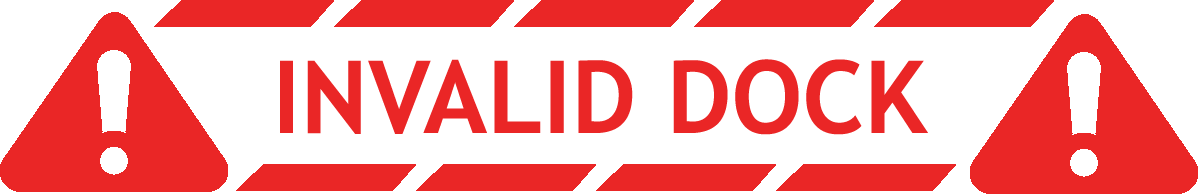
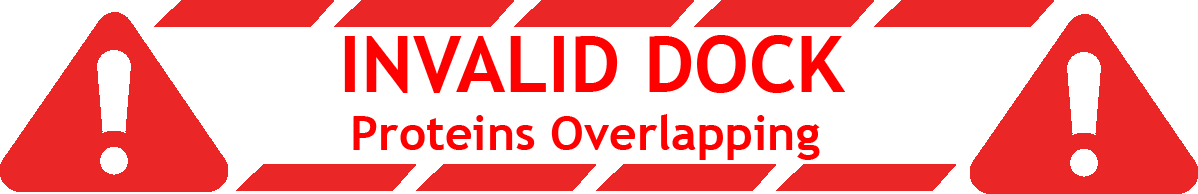
Message on screen when invalid modified. Slider fixes

Changed region(s): [[0.2162, 0.1856, 0.7721, 0.8351]]

diff --git a/PDB_unity/Assets/Scripts/AminoSliderController.cs b/PDB_unity/Assets/Scripts/AminoSliderController.cs
@@ -34,7 +34,7 @@ public class AminoSliderController : MonoBehaviour {
 	public List<Button> A1Buttons = new List<Button> ();
 	public List<Button> A2Buttons = new List<Button> ();
 	//current button
-	public int CurrentButtonA1, CurrentButtonA2 = 0;
+	public int CurrentButtonA1, CurrentButtonA2, LastButtonA1, LastButtonA2 = 0;
 	//text to link when there is the free camera
 	public GameObject AddConnectionText;
 	public Animator ConnectionExistMessage;
@@ -110,17 +110,28 @@ public class AminoSliderController : MonoBehaviour {
             if (ScrollbarAmino1.value > 0.0f)
             {
                 A1Buttons[CurrentButtonA1].GetComponent<Animator>().SetBool("High", false);
+                //save the last active one
+                LastButtonA1 = CurrentButtonA1;
                 //pass over non-active
                 do
                 {
-                    CurrentButtonA1--;
-
+                    if (CurrentButtonA1 == 0)
+                    {
+                        CurrentButtonA1 = LastButtonA1;
+                        break;
+                    }
+                    else
+                    {
+                        CurrentButtonA1--;
+                    }
                 } while (!A1Buttons[CurrentButtonA1].IsActive());
 
                 A1Buttons[CurrentButtonA1].GetComponent<Animator>().SetBool("High", true);
                 ScrollbarAmino1.value = (float)A1Buttons[CurrentButtonA1].GetComponent<AminoButtonController>().temp_AminoButtonID / ((float)number_childs_A1 - 1);
 				A1Buttons[CurrentButtonA1].GetComponent<AminoButtonController>().HighLight();
-			}
+                Debug.Log("CurrentButtonA1: " + CurrentButtonA1 + " - A1Buttons.count: " + A1Buttons.Count + "- number_childs_A1: "+number_childs_A1);
+
+            }
 		}
 		
 		if (ButtonA1RDown)
@@ -128,16 +139,27 @@ public class AminoSliderController : MonoBehaviour {
 			if(ScrollbarAmino1.value < 1.0f)
 			{
                 A1Buttons[CurrentButtonA1].GetComponent<Animator>().SetBool("High", false);
+                //save the last active one
+                LastButtonA1 = CurrentButtonA1;
                 //pass over non-active
                 do
                 {
-                    CurrentButtonA1++;
-
+                    if (CurrentButtonA1 == A1Buttons.Count - 1)
+                    {
+                        CurrentButtonA1= LastButtonA1;
+                        break;
+                    }
+                    else
+                    {
+                        CurrentButtonA1++;
+                    }
                 } while (!A1Buttons[CurrentButtonA1].IsActive());
+                
 
                 A1Buttons[CurrentButtonA1].GetComponent<Animator>().SetBool("High", true);
                 ScrollbarAmino1.value = (float)A1Buttons[CurrentButtonA1].GetComponent<AminoButtonController>().temp_AminoButtonID / ((float)number_childs_A1 - 1);
 				A1Buttons[CurrentButtonA1].GetComponent<AminoButtonController>().HighLight();
+               // Debug.Log("CurrentButtonA1: " + CurrentButtonA1 + " - A1Buttons.count: " + A1Buttons.Count + "- number_childs_A1: "+number_childs_A1);
             }
 		}
         
@@ -146,10 +168,20 @@ public class AminoSliderController : MonoBehaviour {
 			if(ScrollbarAmino2.value > 0.0f)
 			{
                 A2Buttons[CurrentButtonA2].GetComponent<Animator>().SetBool("High", false);
+                //save the last active one
+                LastButtonA2 = CurrentButtonA2;
                 //pass over non-active
                 do
                 {
-                    CurrentButtonA2--;
+                    if (CurrentButtonA2 == 0)
+                    {
+                        CurrentButtonA2 = LastButtonA2;
+                        break;
+                    }
+                    else
+                    {
+                        CurrentButtonA2--;
+                    }
 
                 } while (!A2Buttons[CurrentButtonA2].IsActive());
 
@@ -165,10 +197,20 @@ public class AminoSliderController : MonoBehaviour {
 			{
 
                 A2Buttons[CurrentButtonA2].GetComponent<Animator>().SetBool("High", false);
+                //save the last active one
+                LastButtonA2 = CurrentButtonA2;
                 //pass over non-active
                 do
                 {
-                    CurrentButtonA2++;
+                    if (CurrentButtonA2 == A2Buttons.Count - 1)
+                    {
+                        CurrentButtonA2 = LastButtonA2;
+                        break;
+                    }
+                    else
+                    {
+                        CurrentButtonA2++;
+                    }
 
                 } while (!A2Buttons[CurrentButtonA2].IsActive());
 
@@ -258,7 +300,8 @@ public class AminoSliderController : MonoBehaviour {
 			}
 		}
 
-        UpdateButtonTempID();
+        UpdateButtonTempIDA1();
+        UpdateButtonTempIDA2();
     }
 	
 	public void GeneratesAminoButtons1(string currentAmino, string tag, int index)
@@ -357,11 +400,15 @@ public class AminoSliderController : MonoBehaviour {
 		if (ButtonSelected.transform.parent.name == "ContentPanelA1")
 		{
 			ButtonPickedA1 = ButtonSelected;
+            //udate the slider value
+            //ScrollbarAmino1.value = (float)ButtonSelected.GetComponent<AminoButtonController>().temp_AminoButtonID / ((float)number_childs_A1 - 1);
         }
 		else
 		{
 			ButtonPickedA2 = ButtonSelected;
-		}
+            //udate the slider value
+            //ScrollbarAmino2.value = (float)ButtonSelected.GetComponent<AminoButtonController>().temp_AminoButtonID / ((float)number_childs_A2 - 1);
+        }
 
 		if (ButtonPickedA1 != null && ButtonPickedA2 != null && ButtonPickedA1.GetComponent<Button> ().interactable == true && ButtonPickedA2.GetComponent<Button> ().interactable == true) {
             //AddConnection.GetComponent<Animator> ().enabled = true;
@@ -371,6 +418,8 @@ public class AminoSliderController : MonoBehaviour {
 			AddConnectionText.SetActive(false);
 			//DeactivateAddConnectionButton ();
 		}
+
+
 /*
         //if function type activated
         if (uIController.auto_filter)
@@ -609,9 +658,12 @@ public class AminoSliderController : MonoBehaviour {
                 {
                     for (int i = 0; i < score_aminolinks_holder_max.Count; i++)
                     {
+                        //turn to normal
+                        SliderMol1.transform.Find(((int)score_aminolinks_holder_elec[i].x).ToString()).gameObject.transform.localScale = new Vector3(1, 1, 1);
+                        SliderMol2.transform.Find(((int)score_aminolinks_holder_elec[i].y).ToString()).gameObject.transform.localScale = new Vector3(1, 1, 1);
                         AminoAcidsLinkPanel(BioBloxReference.GetComponent<ConnectionManager>().CreateAminoAcidLink(BioBloxReference.molecules[0].GetComponent<PDB_mesh>(), (int)score_aminolinks_holder_max[i].x, BioBloxReference.molecules[1].GetComponent<PDB_mesh>(), (int)score_aminolinks_holder_max[i].y), SliderMol1.transform.Find(((int)score_aminolinks_holder_max[i].x).ToString()).gameObject, SliderMol2.transform.Find(((int)score_aminolinks_holder_max[i].y).ToString()).gameObject);
-                        FindObjectOfType<ConnectionManager>().SliderStrings.interactable = true;
                     }
+                    FindObjectOfType<ConnectionManager>().SliderStrings.interactable = true;
                     //set the rotation of the molecuels
                     BioBloxReference.molecules[0].transform.localEulerAngles = max_protein0;
                     BioBloxReference.molecules[1].transform.localEulerAngles = max_protein1;
@@ -624,9 +676,12 @@ public class AminoSliderController : MonoBehaviour {
                 {
                     for (int i = 0; i < score_aminolinks_holder_elec.Count; i++)
                     {
+                        //turn to normal
+                        SliderMol1.transform.Find(((int)score_aminolinks_holder_elec[i].x).ToString()).gameObject.transform.localScale = new Vector3(1, 1, 1);
+                        SliderMol2.transform.Find(((int)score_aminolinks_holder_elec[i].y).ToString()).gameObject.transform.localScale = new Vector3(1, 1, 1);
                         AminoAcidsLinkPanel(BioBloxReference.GetComponent<ConnectionManager>().CreateAminoAcidLink(BioBloxReference.molecules[0].GetComponent<PDB_mesh>(), (int)score_aminolinks_holder_elec[i].x, BioBloxReference.molecules[1].GetComponent<PDB_mesh>(), (int)score_aminolinks_holder_elec[i].y), SliderMol1.transform.Find(((int)score_aminolinks_holder_elec[i].x).ToString()).gameObject, SliderMol2.transform.Find(((int)score_aminolinks_holder_elec[i].y).ToString()).gameObject);
-                        FindObjectOfType<ConnectionManager>().SliderStrings.interactable = true;
                     }
+                    FindObjectOfType<ConnectionManager>().SliderStrings.interactable = true;
                     //set the rotation of the molecuels
                     BioBloxReference.molecules[0].transform.localEulerAngles = elec_protein0;
                     BioBloxReference.molecules[1].transform.localEulerAngles = elec_protein0;
@@ -639,9 +694,12 @@ public class AminoSliderController : MonoBehaviour {
                 {
                     for (int i = 0; i < score_aminolinks_holder_len.Count; i++)
                     {
+                        //turn to normal
+                        SliderMol1.transform.Find(((int)score_aminolinks_holder_elec[i].x).ToString()).gameObject.transform.localScale = new Vector3(1, 1, 1);
+                        SliderMol2.transform.Find(((int)score_aminolinks_holder_elec[i].y).ToString()).gameObject.transform.localScale = new Vector3(1, 1, 1);
                         AminoAcidsLinkPanel(BioBloxReference.GetComponent<ConnectionManager>().CreateAminoAcidLink(BioBloxReference.molecules[0].GetComponent<PDB_mesh>(), (int)score_aminolinks_holder_len[i].x, BioBloxReference.molecules[1].GetComponent<PDB_mesh>(), (int)score_aminolinks_holder_len[i].y), SliderMol1.transform.Find(((int)score_aminolinks_holder_len[i].x).ToString()).gameObject, SliderMol2.transform.Find(((int)score_aminolinks_holder_len[i].y).ToString()).gameObject);
-                        FindObjectOfType<ConnectionManager>().SliderStrings.interactable = true;
                     }
+                    FindObjectOfType<ConnectionManager>().SliderStrings.interactable = true;
                     //set the rotation of the molecuels
                     BioBloxReference.molecules[0].transform.localEulerAngles = len_protein0;
                     BioBloxReference.molecules[1].transform.localEulerAngles = len_protein1;
@@ -707,26 +765,34 @@ public class AminoSliderController : MonoBehaviour {
 
 
 
-    public void UpdateButtonTempID()
+    public void UpdateButtonTempIDA1()
     {
         number_childs_A1 = 0;
         foreach (Transform child in SliderMol1.transform)
         {
             if (child.gameObject.activeSelf)
             {
+                if (number_childs_A1 == 0) CurrentButtonA1 = child.GetComponent<AminoButtonController>().AminoButtonID;
                 child.GetComponent<AminoButtonController>().temp_AminoButtonID = number_childs_A1;
                 number_childs_A1++;
             }
         }
+        ScrollbarAmino1.value = 0;
+        Debug.Log(ScrollbarAmino1.value);
+    }
 
+    public void UpdateButtonTempIDA2()
+    {
         number_childs_A2 = 0;
         foreach (Transform child in SliderMol2.transform)
         {
             if (child.gameObject.activeSelf)
             {
+                if (number_childs_A2 == 0) CurrentButtonA2 = child.GetComponent<AminoButtonController>().AminoButtonID;
                 child.GetComponent<AminoButtonController>().temp_AminoButtonID = number_childs_A2;
                 number_childs_A2++;
             }
         }
+        ScrollbarAmino2.value = 0;
     }
 }

diff --git a/PDB_unity/Assets/Scripts/UIController.cs b/PDB_unity/Assets/Scripts/UIController.cs
@@ -271,7 +271,7 @@ public class UIController : MonoBehaviour {
 
         }
         //set id_s
-        aminoSliderController.UpdateButtonTempID();
+        aminoSliderController.UpdateButtonTempIDA1();
 	}
 
 	public void ToggleNegativeA1()
@@ -298,7 +298,7 @@ public class UIController : MonoBehaviour {
             }
         }
         //set id_s
-        aminoSliderController.UpdateButtonTempID();
+        aminoSliderController.UpdateButtonTempIDA1();
     }
 
 	public void TogglePolarA1()
@@ -325,7 +325,7 @@ public class UIController : MonoBehaviour {
             }
         }
         //set id_s
-        aminoSliderController.UpdateButtonTempID();
+        aminoSliderController.UpdateButtonTempIDA1();
     }
 
 	public void ToggleOtherA1()
@@ -352,7 +352,7 @@ public class UIController : MonoBehaviour {
             }
         }
         //set id_s
-        aminoSliderController.UpdateButtonTempID();
+        aminoSliderController.UpdateButtonTempIDA1();
     }
 
 	public void ToggleHydroA1()
@@ -379,7 +379,7 @@ public class UIController : MonoBehaviour {
             }
         }
         //set id_s
-        aminoSliderController.UpdateButtonTempID();
+        aminoSliderController.UpdateButtonTempIDA1();
     }
 
 	//AMINO ACIDS 2
@@ -408,7 +408,7 @@ public class UIController : MonoBehaviour {
             }
         }
         //set id_s
-        aminoSliderController.UpdateButtonTempID();
+        aminoSliderController.UpdateButtonTempIDA2();
     }
 	
 	public void ToggleNegativeA2()
@@ -436,7 +436,7 @@ public class UIController : MonoBehaviour {
             }
         }
         //set id_s
-        aminoSliderController.UpdateButtonTempID();
+        aminoSliderController.UpdateButtonTempIDA2();
     }
 	
 	public void TogglePolarA2()
@@ -463,7 +463,7 @@ public class UIController : MonoBehaviour {
             }
         }
         //set id_s
-        aminoSliderController.UpdateButtonTempID();
+        aminoSliderController.UpdateButtonTempIDA2();
     }
 	
 	public void ToggleOtherA2()
@@ -490,7 +490,7 @@ public class UIController : MonoBehaviour {
             }
         }
         //set id_s
-        aminoSliderController.UpdateButtonTempID();
+        aminoSliderController.UpdateButtonTempIDA2();
     }
 	
 	public void ToggleHydroA2()
@@ -517,7 +517,7 @@ public class UIController : MonoBehaviour {
             }
         }
         //set id_s
-        aminoSliderController.UpdateButtonTempID();
+        aminoSliderController.UpdateButtonTempIDA2();
     }
 
 	void ToggleAllButtonsSlider(List<GameObject> CurrentList, bool status)
